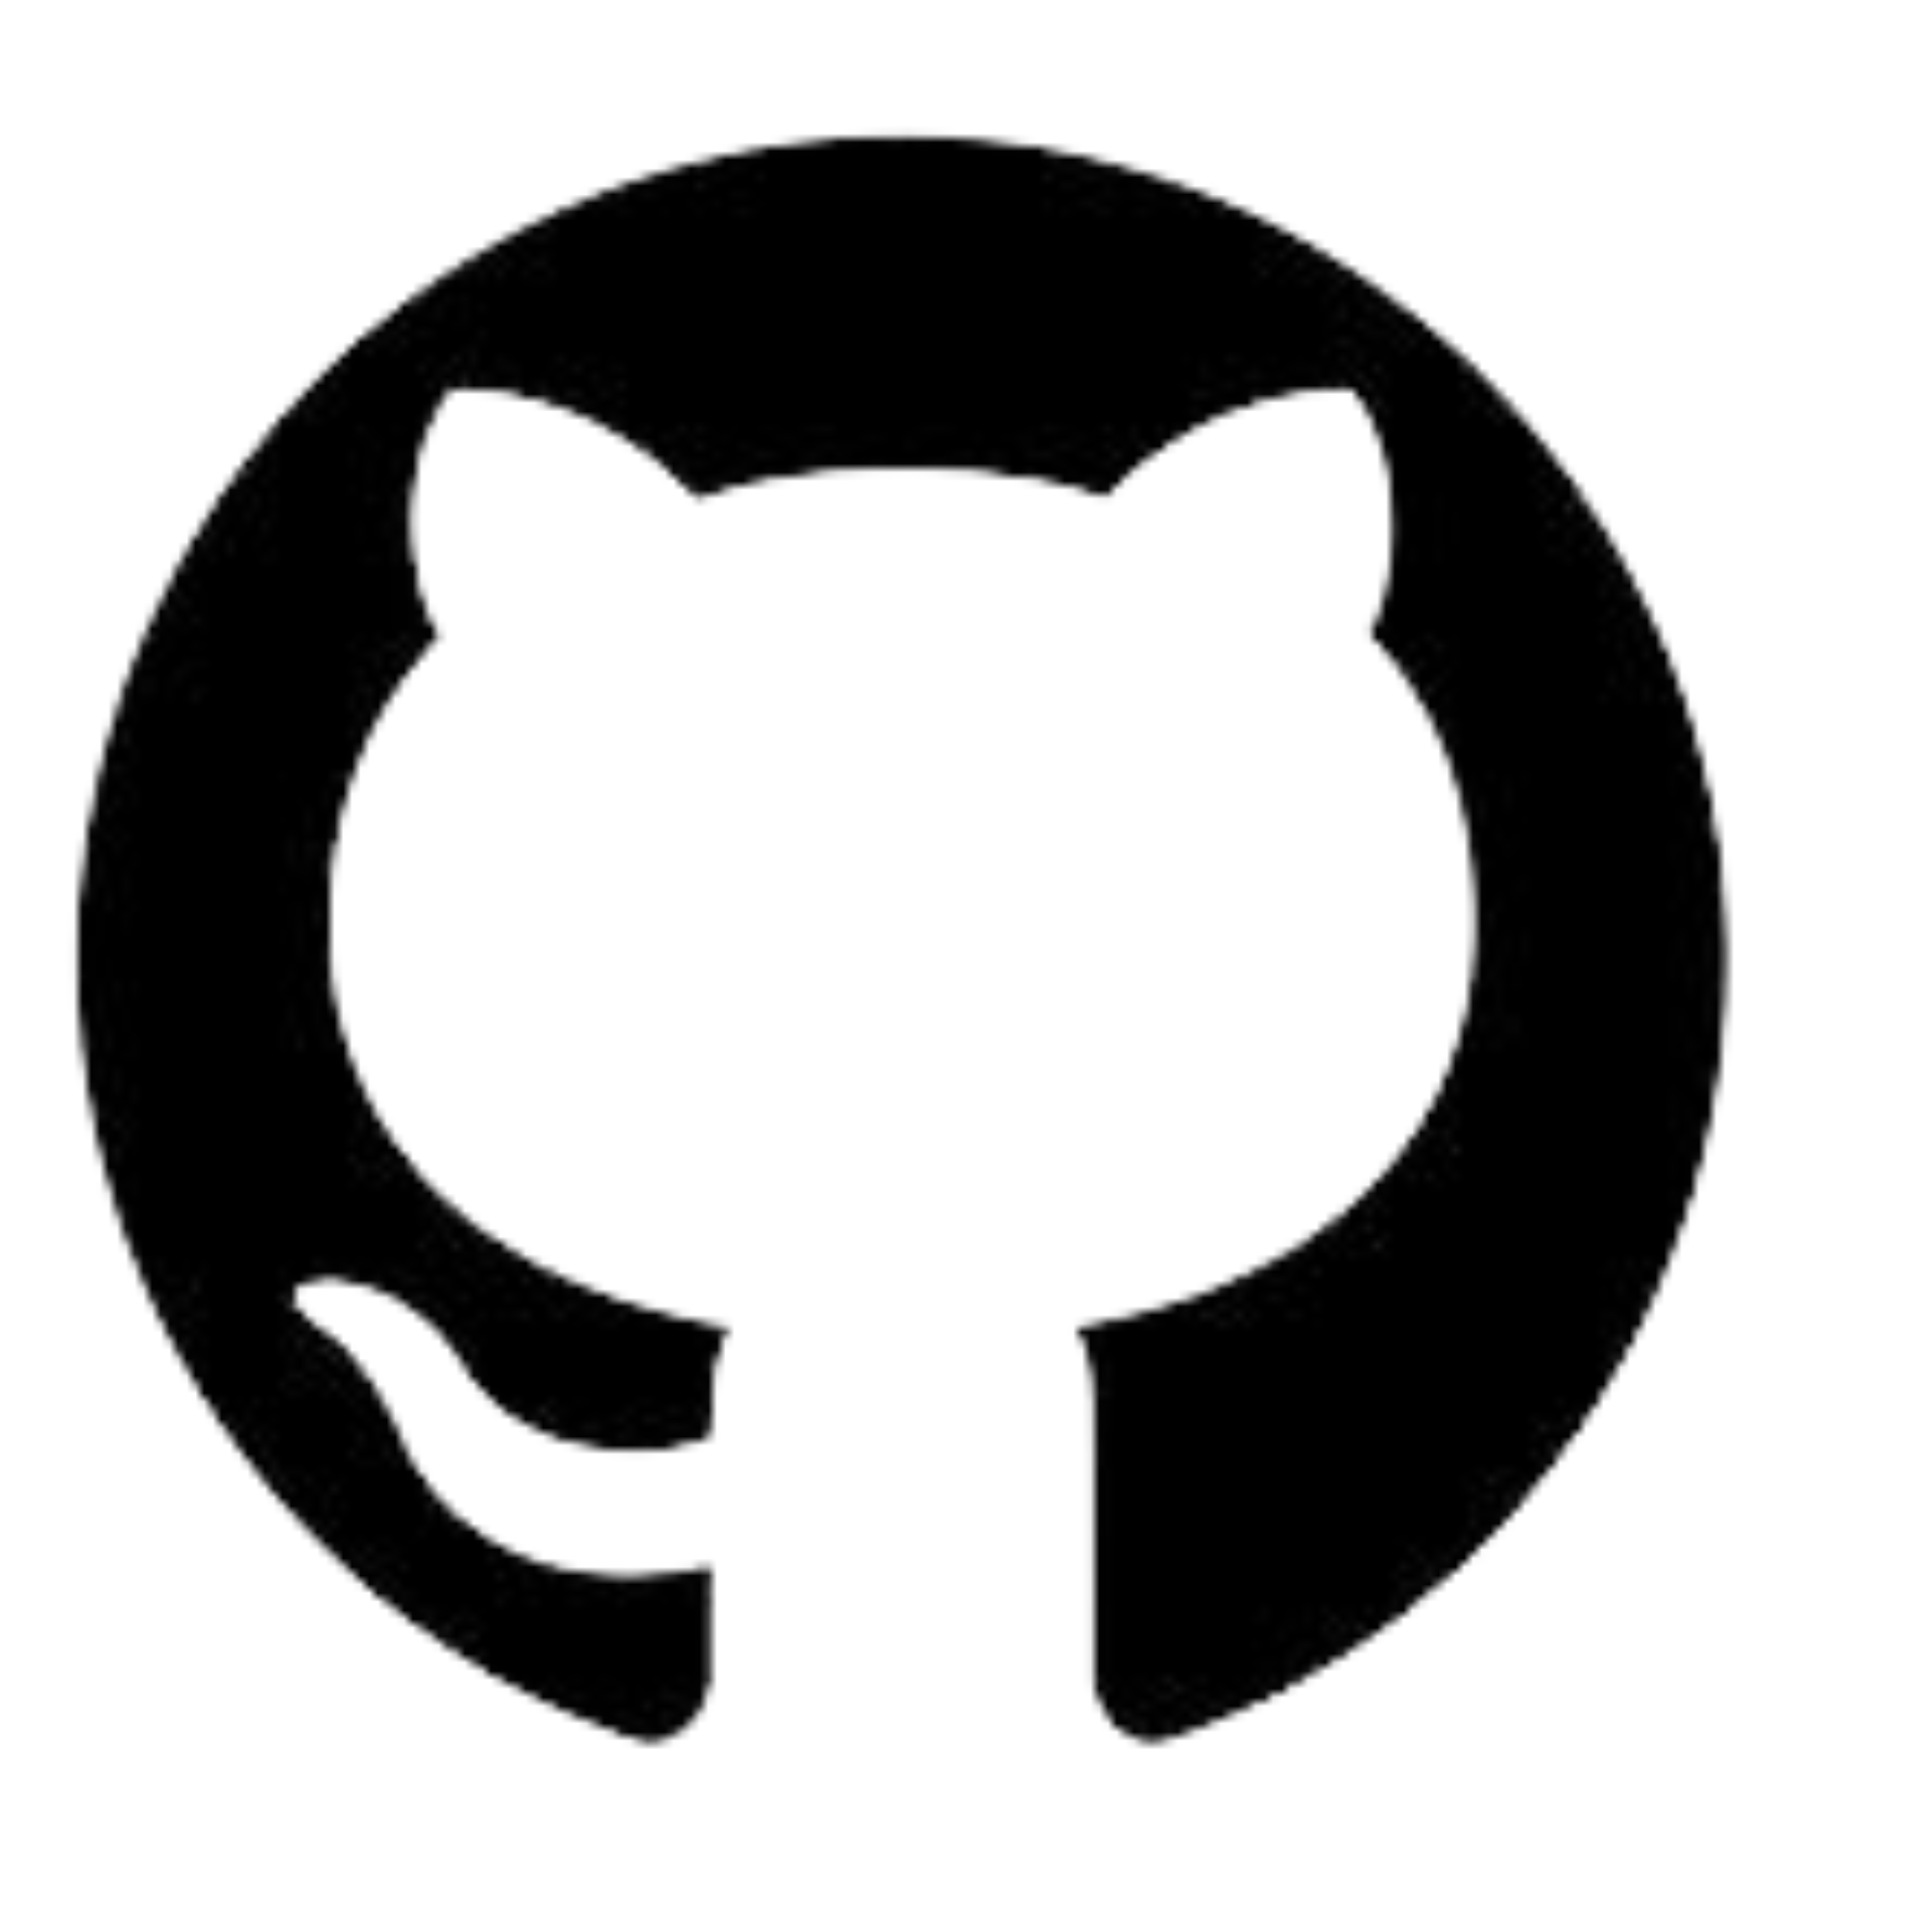
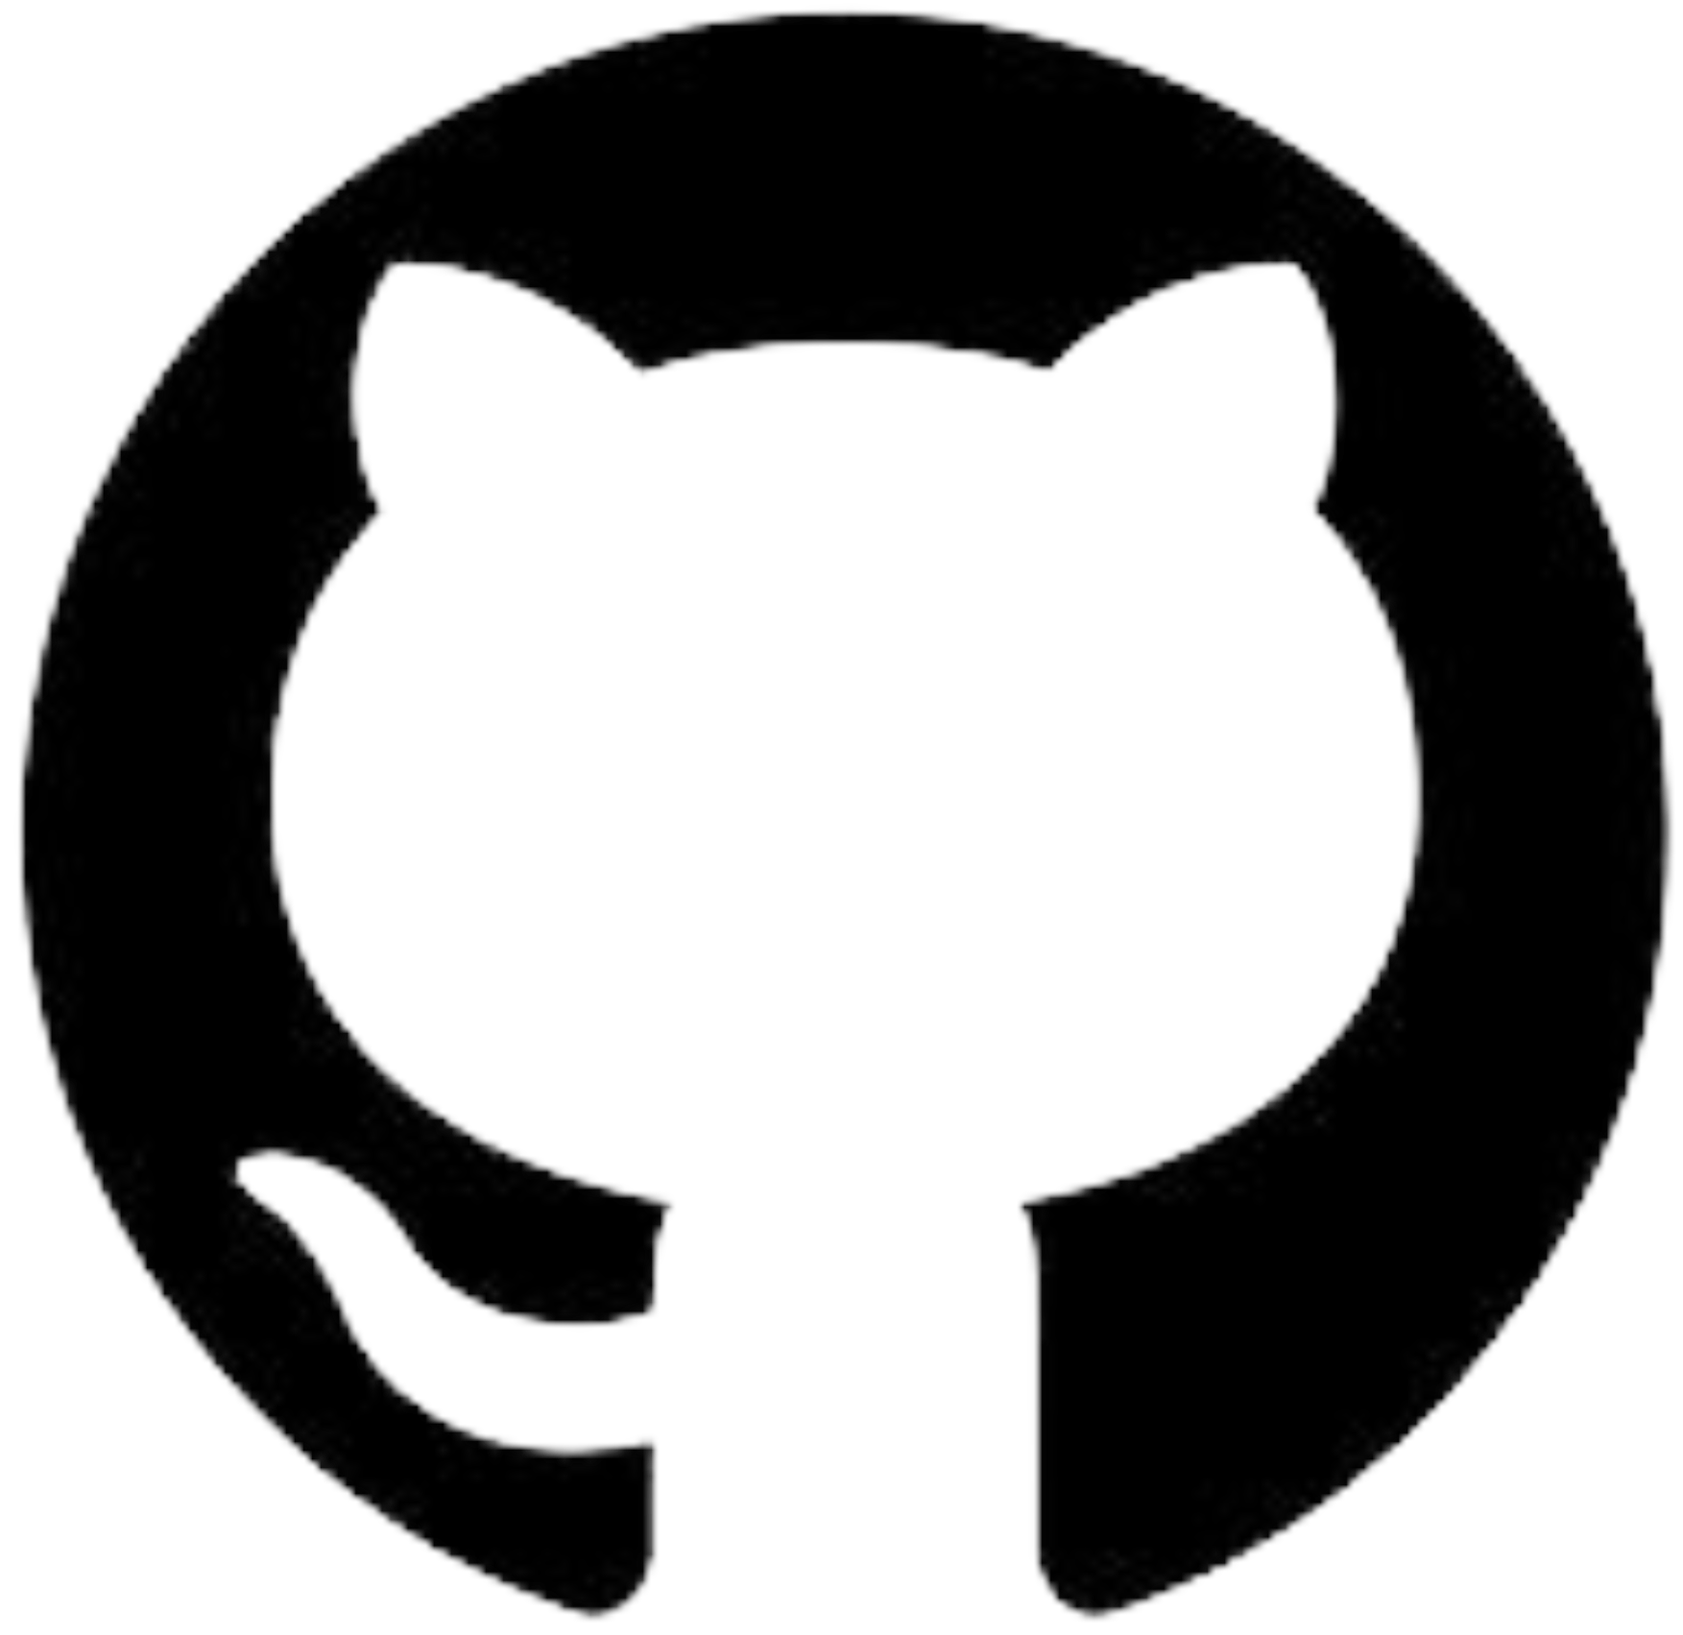
[Angel] portfolio html and css

diff --git a/portfolio.html b/portfolio.html
@@ -44,7 +44,7 @@
             I’m a Bachelor of Science in Computer Science student at the University of the Philippines Cebu, passionate about Software Development and Cybersecurity. 
             From a young age, I’ve always been curious about how things work—especially the inner workings of applications and the technologies that power them. 
             That curiosity eventually evolved into a strong passion for building efficient systems and ensuring they’re secure.
-
+            <br/><br/>
             As I dive deeper into the world of tech, I find myself constantly fascinated by the blend of creativity and logic required in software development, as well as the critical thinking and attention to detail involved in cybersecurity. 
             I genuinely enjoy solving complex problems, learning new tools and frameworks, and staying up to date with the latest innovations in technology.
             
@@ -118,7 +118,7 @@
 
   <!-- Contact Section -->
   <section id="contact" class="contact">
-    <h2>Connect with Us</h2>
+    <h2>Connect with Me</h2>
     <p class="quote">"Feel free to reach out—every idea starts with a conversation!"</p>
     <div class="contact-details">
         <p><strong>Email:</strong> <u>aaasenoron@gmail.com</u></p>
@@ -132,12 +132,12 @@
     </div>
     <div class="social-media">
         <ul>
-            <li><a href="https://www.facebook.com/aagrsen" target="_blank">Facebook</a></li>
-            <li><a href="https://www.linkedin.com/in/aasenoron" target="_blank">LinkedIn</a></li>
+            <li><a href="https://www.instagram.com/heizoketchup" target="_blank"><img src="images/instagram.png"/></a></li>
+            <li><a href="https://github.com/royalsprites" target="_blank"><img src="images/github-icon.png"/></a></li>
         </ul>
     </div>
 </section>
-  <script>
+  <script defer>
     const sections = document.querySelectorAll("section");
     const navBtns = document.querySelectorAll(".nav-btn");
   
@@ -148,7 +148,7 @@
         section.scrollIntoView({ behavior: "smooth" });
       });
     });
-  
+
     window.addEventListener("scroll", () => {
       let current = "";
       sections.forEach(section => {
@@ -157,7 +157,7 @@
           current = section.getAttribute("id");
         }
       });
-  
+
       navBtns.forEach(btn => {
         btn.classList.remove("active");
         if (btn.getAttribute("data-target") === current) {
@@ -171,6 +171,22 @@
         themeToggle.addEventListener("change", () => {
             document.body.classList.toggle("dark-theme");
         });
+    });
+    
+    document.addEventListener("DOMContentLoaded", () => {
+      document.getElementById('about').scrollIntoView({
+        behavior: 'smooth',
+        block: 'start'
+      });
+
+      document.querySelectorAll('a[href^="#"]').forEach(anchor => {
+        anchor.addEventListener("click", function (e) {
+          e.preventDefault();
+          document.querySelector(this.getAttribute("href")).scrollIntoView({
+            behavior: "smooth"
+          });
+        });
+      });
     });
   </script>  
 </body>

diff --git a/portfolio.css b/portfolio.css
@@ -359,6 +359,7 @@
   }
   
   .contact h2 {
+    color: #cd9443;
     font-size: 2rem;
     margin-bottom: 1rem;
   }
@@ -366,7 +367,6 @@
   .quote {
     font-style: italic;
     margin-bottom: 2rem;
-    color: #cd9443;
   }
   
   .contact-details {
@@ -398,16 +398,12 @@
     gap: 1rem;
   }
   
-  .social-media a {
+  .social-media a img {
+    width: 30px;
+    height: 30px;
     margin: 0 1rem;
-    text-decoration: none;
-    color: #007acc;
     font-size: 1.2rem;
     transition: color 0.3s ease;
-  }
-  
-  .social-media a:hover {
-    color: #005fa3;
   }
   
   /* Animations */
